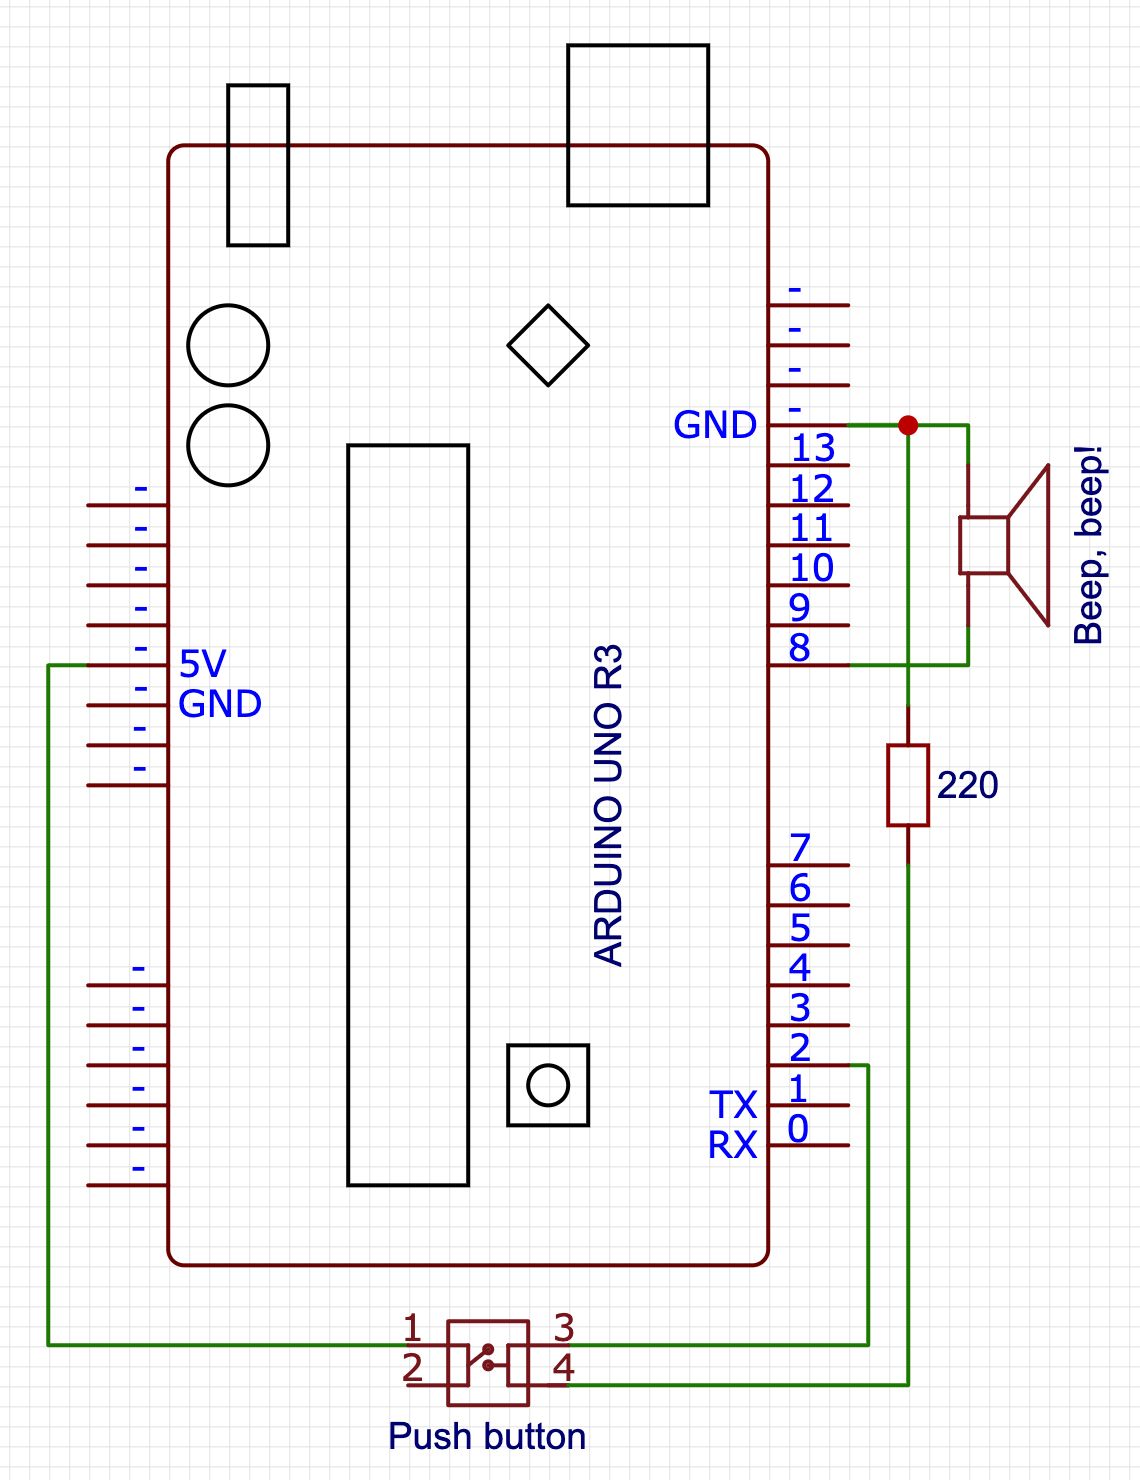
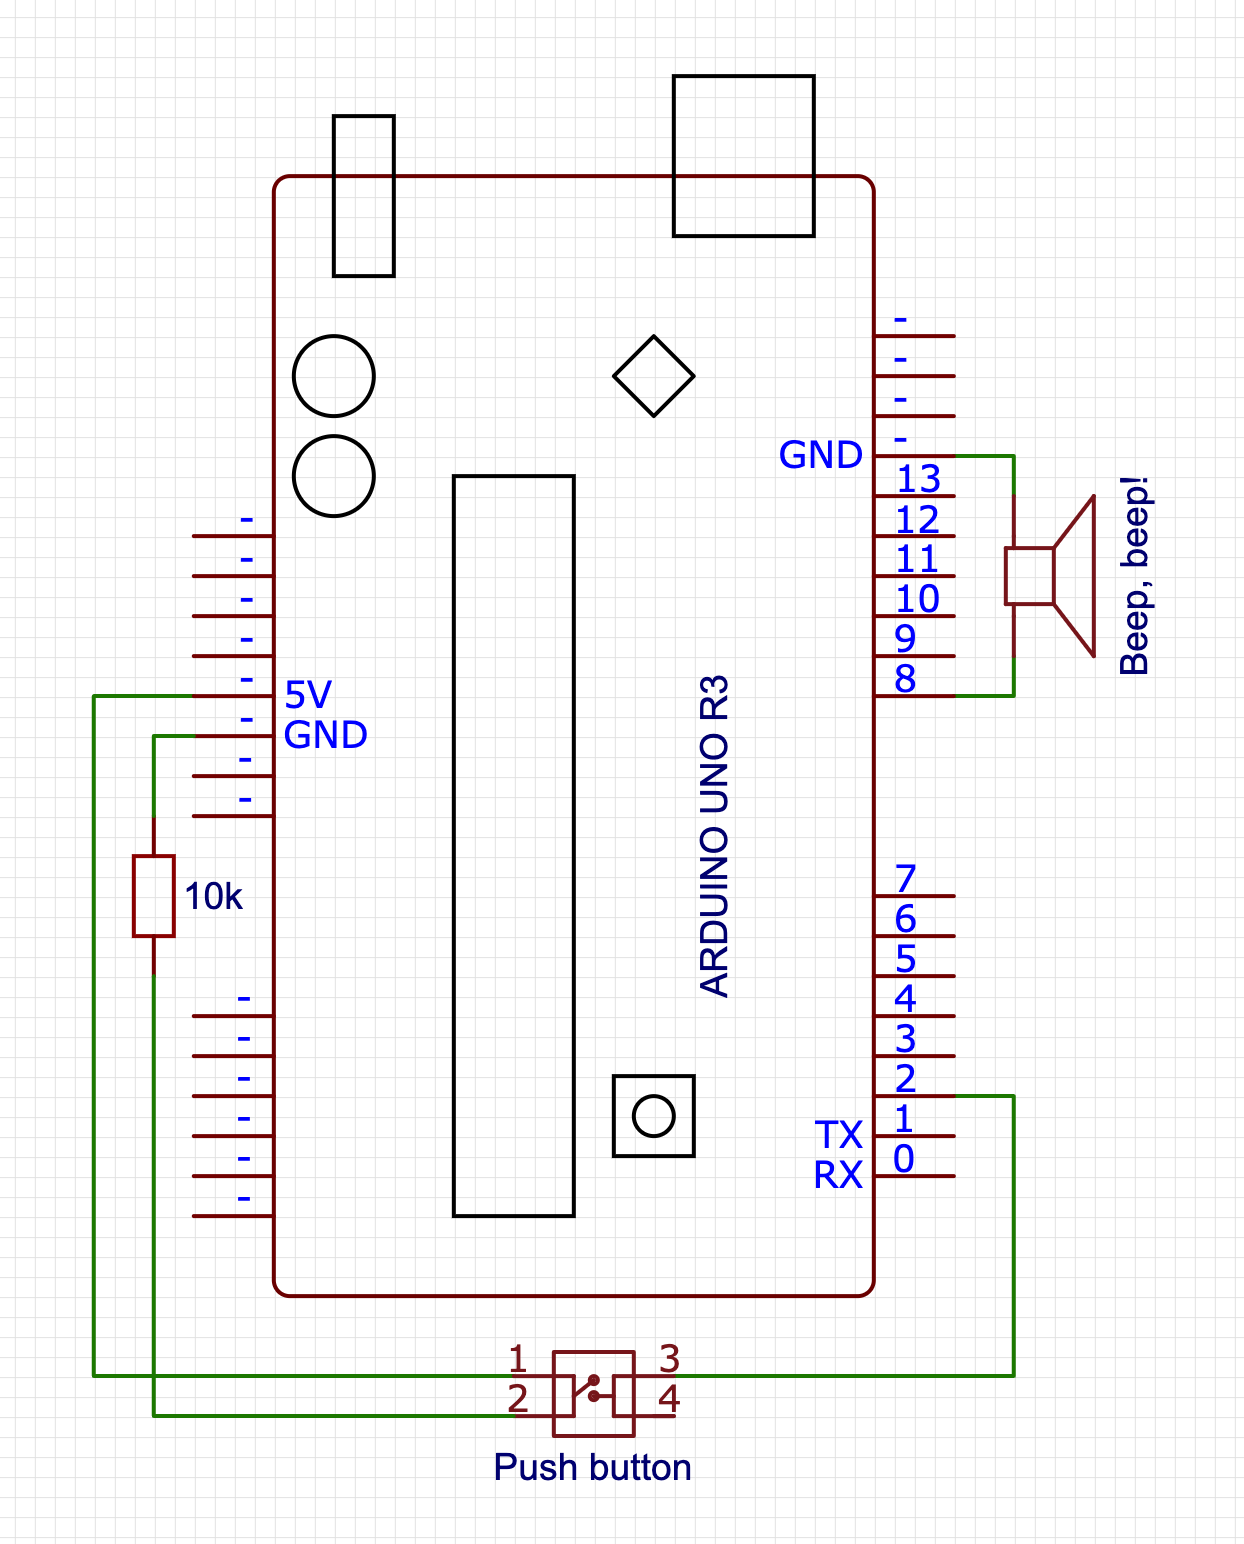
updated button diagrams

diff --git a/README.md b/README.md
@@ -43,8 +43,9 @@ To build this, we're going to basically build a standard "MIDI-In + MIDI-Thru" c
 And of course, the bits that you'll get with pretty much any Arduino starter kit:
 
 1. An Arduino UNO R3 or equivalent board
-1. 4x 220 ohm resistors
+1. 2x 220 ohm resistors
 1. 1x 4.7k ohm resistor
+1. 2x 10k ohm resistors
 1. A diode
 1. A piezo buzzer
 1. Two clicky pushy buttons
